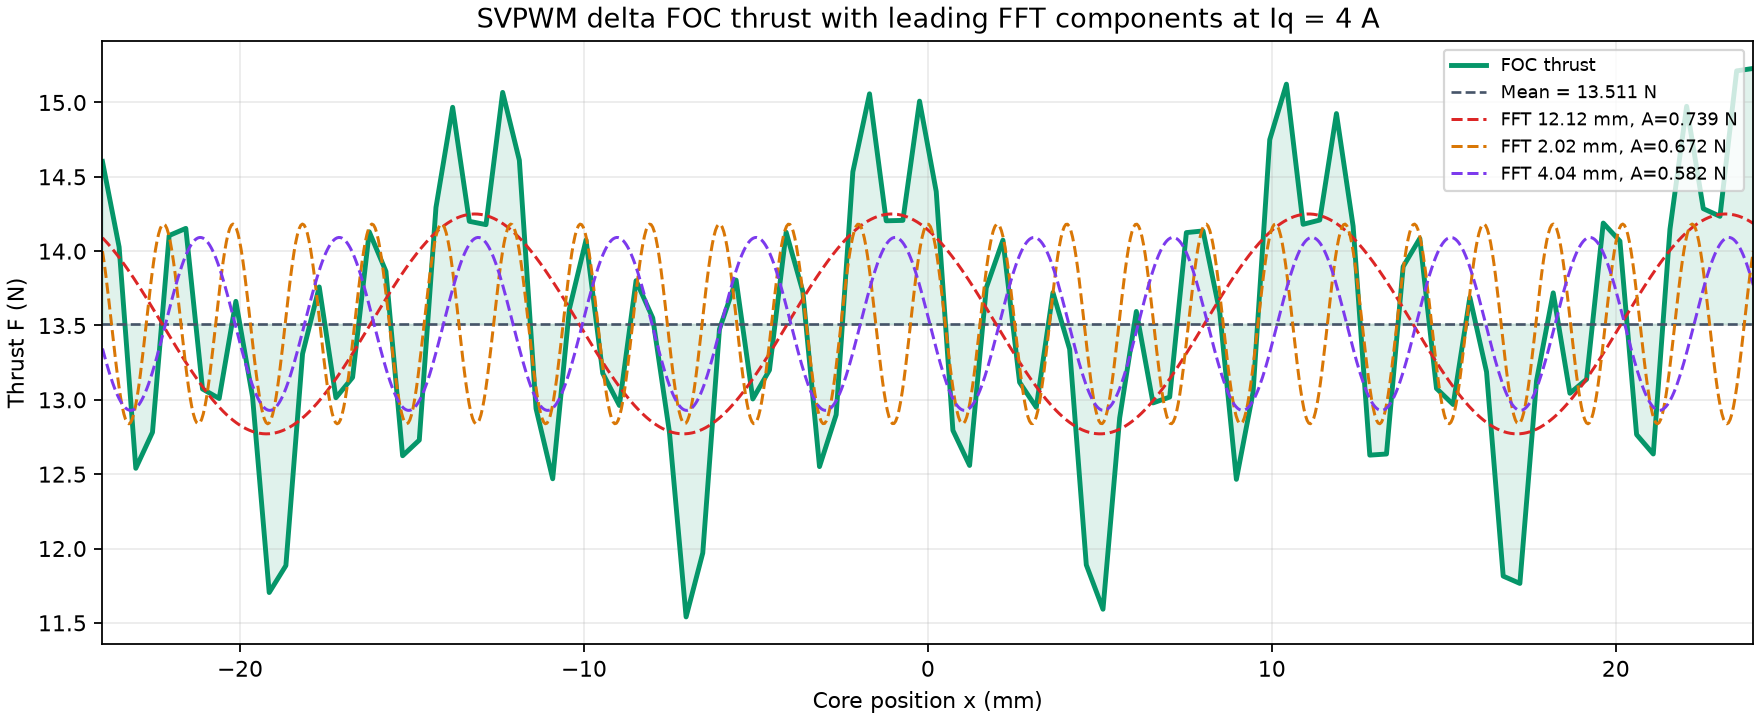
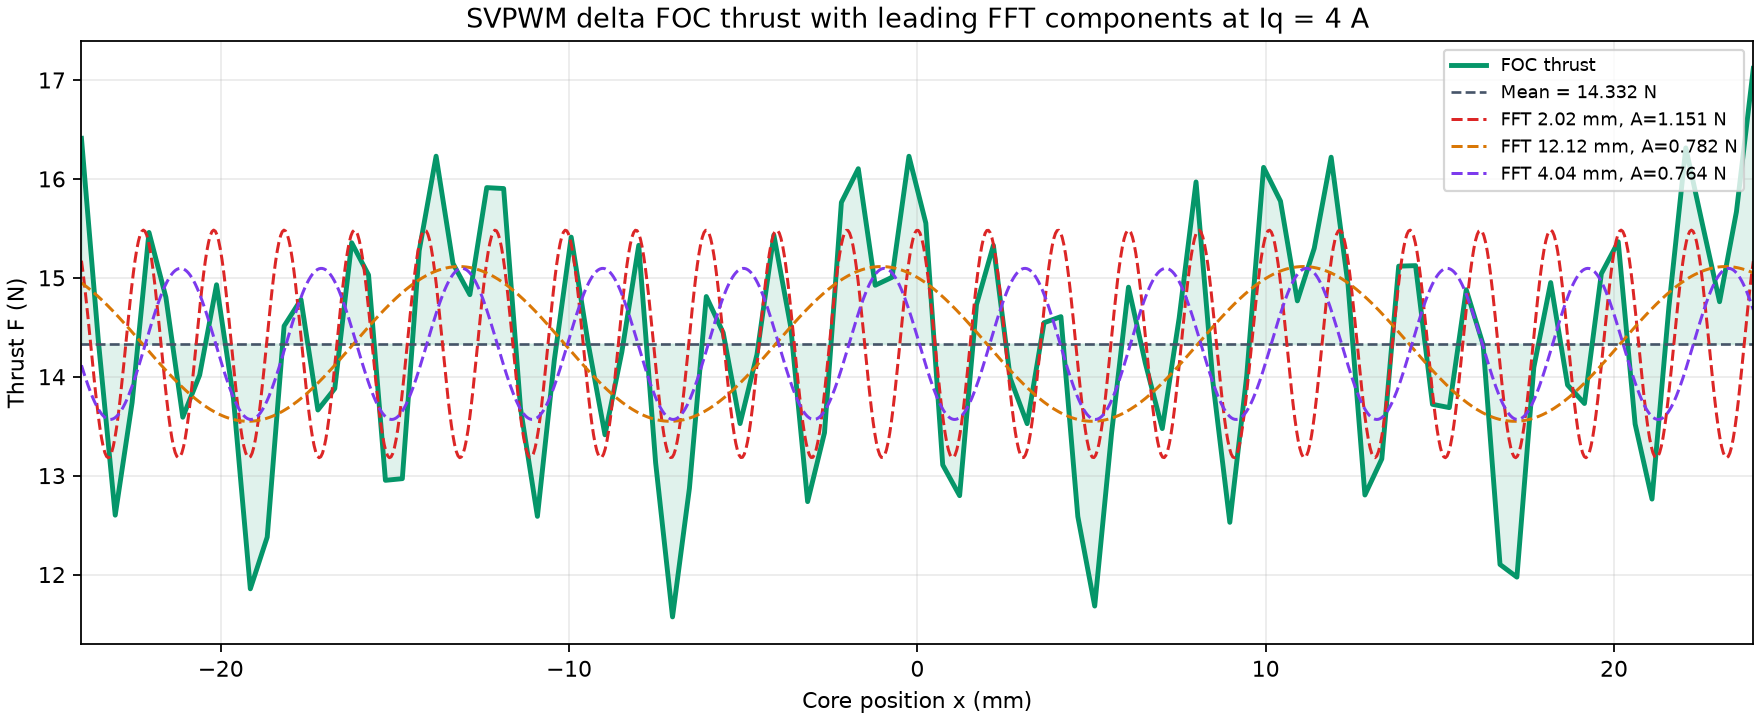
fix: resolve cogging force periodicity

diff --git a/halbach_field_n52.html b/halbach_field_n52.html
@@ -48,8 +48,8 @@
     <div class="note">6:6 为 24 mm 磁极对内的 +Z、-Y、-Z、+Y 四段基础 Halbach。齿槽力曲线采用有限五组阵列、DXF 铁芯轮廓与 16 mm 连续叠厚积分，在 -24 mm 至 +24 mm 内以 100 个位置点计算。曲线和 FFT 含有限阵列端部效应，适合该实际行程内的方案比较。</div>
     <div class="note"><span class="key">斜极取舍</span>：14.04° 的磁场基波系数约 0.955，适合推力优先；26.565° 的系数约 0.827，适合齿槽力优先。实际残余力由 B-H 曲线、端部磁通、加工与装配误差决定。</div>
     <div class="note">色图由二维磁矢势方程求解：DXF 闭合轮廓在网格内赋予 35W300 的线性 μr≈4000，气隙为 1 mm，磁铁厚度为 3 mm。铁芯绕其中心旋转 180°，齿顶位于磁铁顶面上方 1 mm。求解域随五组磁铁阵列扩展，四周采用远离模型的固定磁矢势边界；铁芯位于画面中心，左右侧磁铁单元数相同，所有磁铁块均绘制轮廓。</div>
-    <div class="note">每种磁铁排布均提供 200 帧动画，展示铁芯按 -24 mm、+24 mm、-24 mm 的顺序往复运动。曲线使用 100 个单程位置点计算。磁铁边界在每个 0.5 mm 网格单元内以 8 点体积分数平均；齿槽力采用 9 点三阶局部多项式共能量导数，抑制单元级能量残差形成的伪尖峰。白色箭头表示计算得到的齿槽力方向，箭头长度随力值绝对值变化，箭头上方显示当前位置与瞬时齿槽力。</div>
-    <div class="note"><span class="key">SVPWM Δ 接 FOC 推力模型</span>：三齿三相集中绕组，每相 266 匝、0.4 mm 线径、有效叠厚 16 mm。Iq=4 A 定义为 Δ 每个绕组支路的基波 q 轴峰值电流，对应线电流峰值约 6.93 A。SVPWM 注入的是零序电压以扩展调制范围；支路电流采用平衡基波，避免将三次谐波环流计入有效推力。磁铁边界在每个 0.5 mm 网格单元内使用 8 点体积分数平均，避免边界跨单元跳变被磁链微分放大。推力由各齿气隙磁链的位置导数与瞬时相电流相乘计算，未叠加齿槽力。</div>
+    <div class="note">每种磁铁排布均提供 200 帧动画，展示铁芯按 -24 mm、+24 mm、-24 mm 的顺序往复运动。齿槽力曲线使用 100 个单程位置点计算，磁铁边界在每个 0.25 mm 网格单元内以 8 点体积分数平均；齿槽力采用 5 点三阶局部多项式共能量导数，保留 4 mm 齿槽主周期并抑制单元级能量残差。白色箭头表示计算得到的齿槽力方向，箭头长度随力值绝对值变化，箭头上方显示当前位置与瞬时齿槽力。</div>
+    <div class="note"><span class="key">SVPWM Δ 接 FOC 推力模型</span>：三齿三相集中绕组，每相 266 匝、0.4 mm 线径、有效叠厚 16 mm。Iq=4 A 定义为 Δ 每个绕组支路的基波 q 轴峰值电流，对应线电流峰值约 6.93 A。SVPWM 注入的是零序电压以扩展调制范围；支路电流采用平衡基波，避免将三次谐波环流计入有效推力。磁铁边界在每个 0.25 mm 网格单元内使用 8 点体积分数平均，避免边界跨单元跳变被磁链微分放大。推力由各齿气隙磁链的位置导数与瞬时相电流相乘计算，未叠加齿槽力。</div>
   </div>
 </main>
 <script type="application/json">
@@ -197,6 +197,7 @@ const forceCurve = document.querySelector('#forceCurve');
 const mapLabel = document.querySelector('#mapLabel');
 const motionStatus = document.querySelector('#motionStatus');
 const animationRevision = 'roundtrip-24-v1-subcell-cogging-v2';
+const curveRevision = 'h025-cogging-v1';
 for (const button of document.querySelectorAll('.mapButton')) {
   button.onclick = () => {
     const map = fieldMaps[button.dataset.map];
@@ -205,9 +206,9 @@ for (const button of document.querySelectorAll('.mapButton')) {
     motionStatus.textContent = `已选择 ${map.label} 动画。`;
     motionMap.src = `${map.motion}?v=${animationRevision}`;
     motionMap.alt = `${map.label} 铁芯运动与齿槽力动画`;
-    forceCurve.src = `${map.curve}?v=${animationRevision}`;
+    forceCurve.src = `${map.curve}?v=${curveRevision}`;
     forceCurve.alt = `${map.label} 齿槽力随位置变化曲线`;
-    thrustCurve.src = `${map.thrust}?v=${animationRevision}`;
+    thrustCurve.src = `${map.thrust}?v=${curveRevision}`;
     thrustCurve.alt = `${map.label} 相同 Iq 下的 FOC 推力曲线`;
     mapLabel.textContent = map.label;
     for (const item of document.querySelectorAll('.mapButton')) item.classList.toggle('active', item === button);

diff --git a/cogging_fdm.py b/cogging_fdm.py
@@ -16,9 +16,14 @@ PITCH = 16.0
 TOOTH = 5.0
 PERIOD = 48.0
 GAP = 1.0
-H = 0.5
+# A 0.25 mm field grid resolves the moving magnet edges well enough for the
+# short coenergy derivative window to retain the physical cogging harmonic.
+H = 0.25
 MAGNET_SUBCELL_SAMPLES = 8
-COENERGY_SMOOTH_WINDOW = 9
+# At the 100-point, 48 mm travel sampling interval this spans 2.42 mm, below
+# the resolved 4 mm cogging period. A wider 9-point window attenuates that
+# physical fundamental and leaves the finite-array envelope dominant.
+COENERGY_SMOOTH_WINDOW = 5
 COENERGY_SMOOTH_ORDER = 3
 COIL_TURNS = 266
 ACTIVE_STACK_M = 16e-3
@@ -291,8 +296,8 @@ if ANIMATE:
         phase_flux_linkages.append(np.mean(slice_linkages, axis=0))
     sample_step_m = (sample_positions[1] - sample_positions[0]) * 1e-3
     # Differentiate a local polynomial fit to coenergy rather than raw cell-level
-    # energy samples. This preserves the resolved 4 mm cogging content while
-    # rejecting residual sub-cell boundary noise before it becomes a force spike.
+    # energy samples. The 5-point window suppresses residual sub-cell noise
+    # while retaining the resolved 4 mm cogging fundamental.
     force_samples = -savgol_filter(
         np.asarray(energies),
         COENERGY_SMOOTH_WINDOW,
